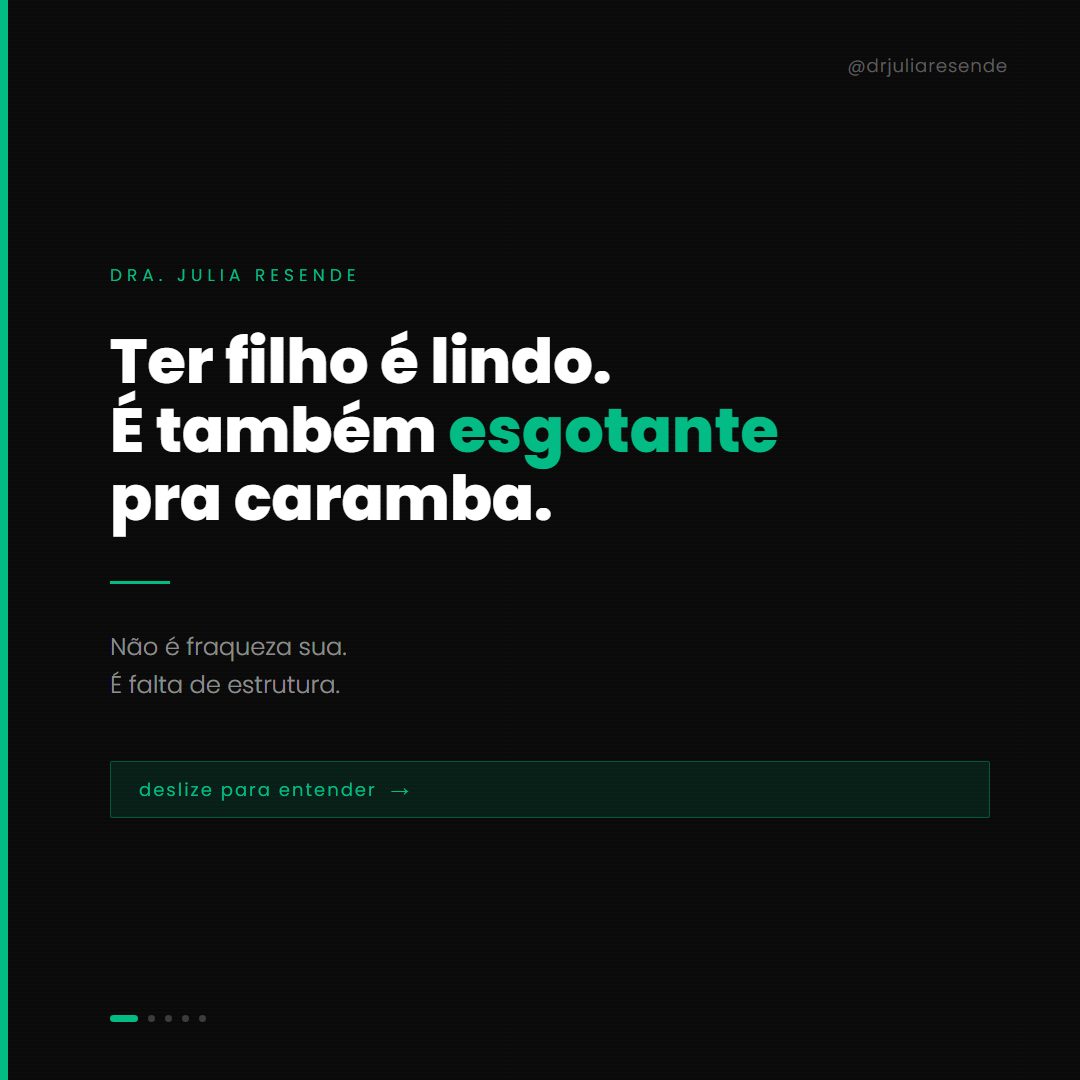
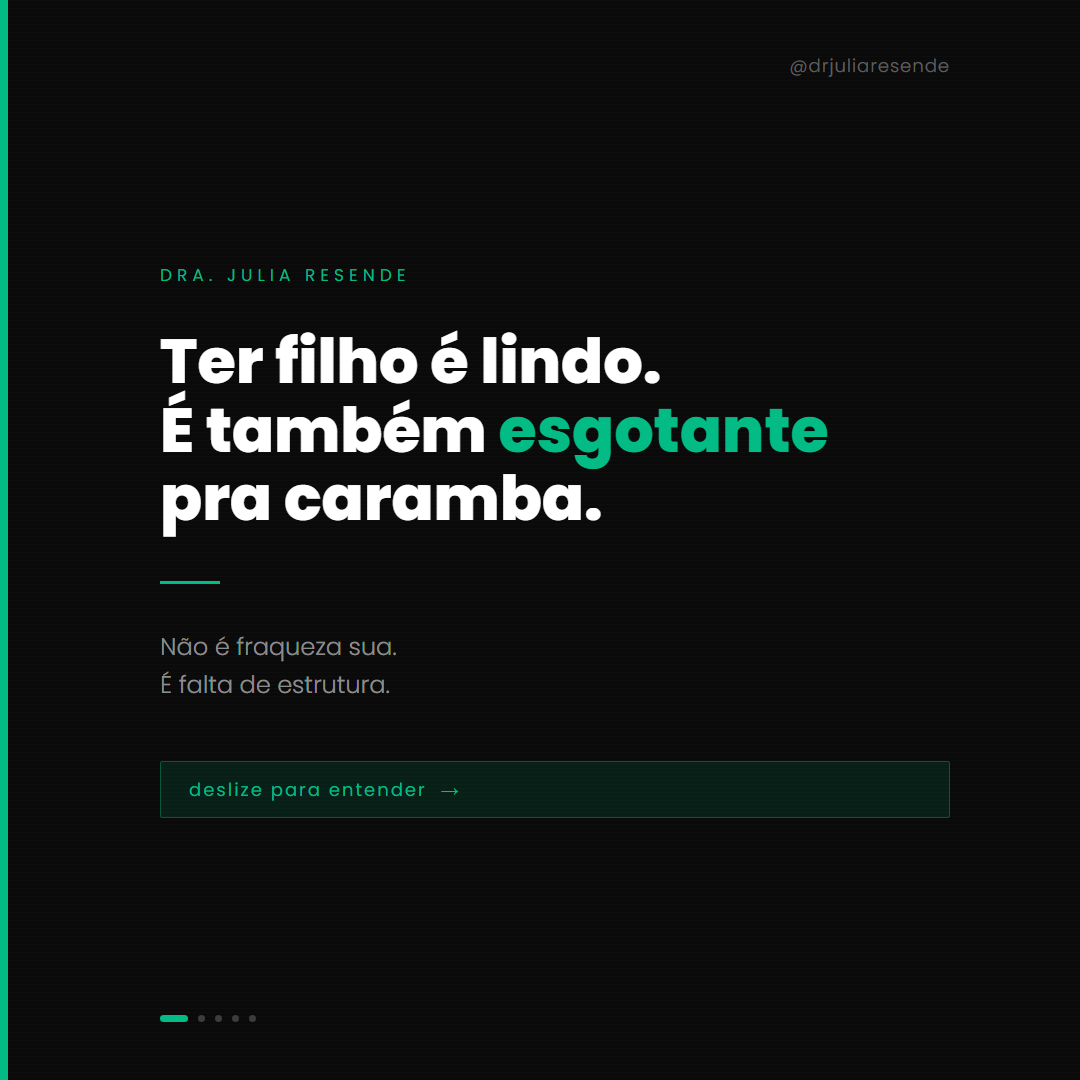
feat: carrossel-03 re-gerado com safe zone Instagram — padding 160px esquerda, texto completo sem corte

diff --git a/squads/dr-julia-resende/carrossel-03/slide-03.html b/squads/dr-julia-resende/carrossel-03/slide-03.html
@@ -8,8 +8,8 @@
     body { width: 1080px; height: 1080px; overflow: hidden; background: #F5ECD7; position: relative; font-family: 'Poppins', sans-serif; }
     body::before { content: ''; position: absolute; inset: 0; background-image: repeating-linear-gradient(0deg, transparent, transparent 2px, rgba(180,150,100,0.04) 2px, rgba(180,150,100,0.04) 4px), repeating-linear-gradient(90deg, transparent, transparent 3px, rgba(180,150,100,0.03) 3px, rgba(180,150,100,0.03) 6px); z-index: 0; }
     .accent-bar { position: absolute; left: 0; top: 0; width: 8px; height: 100%; background: #03bb85; z-index: 10; }
-    .handle { position: absolute; top: 52px; right: 72px; font-size: 18px; font-weight: 300; color: rgba(44,24,16,0.35); letter-spacing: 1px; z-index: 10; }
-    .content { position: relative; z-index: 10; height: 100%; display: flex; flex-direction: column; justify-content: center; padding: 0 90px 0 110px; }
+    .handle { position: absolute; top: 52px; right: 130px; font-size: 18px; font-weight: 300; color: rgba(44,24,16,0.35); letter-spacing: 1px; z-index: 10; }
+    .content { position: relative; z-index: 10; height: 100%; display: flex; flex-direction: column; justify-content: center; padding: 0 130px 0 160px; }
     .label { display: inline-flex; align-items: center; gap: 12px; background: rgba(3,187,133,0.12); border: 1px solid rgba(3,187,133,0.3); color: #03bb85; font-size: 15px; font-weight: 400; letter-spacing: 4px; text-transform: uppercase; padding: 10px 22px; border-radius: 2px; margin-bottom: 40px; width: fit-content; }
     .title { font-family: 'Playfair Display', serif; font-size: 58px; font-weight: 700; line-height: 1.2; color: #2C1810; margin-bottom: 50px; }
     .title em { font-style: italic; color: #03bb85; }
@@ -22,7 +22,7 @@
     .dots {
       position: absolute;
       bottom: 58px;
-      left: 110px;
+      left: 160px;
       display: flex;
       gap: 10px;
       align-items: center;

diff --git a/squads/dr-julia-resende/carrossel-03/slide-02.html b/squads/dr-julia-resende/carrossel-03/slide-02.html
@@ -8,8 +8,8 @@
     body { width: 1080px; height: 1080px; overflow: hidden; background: #0A0A0A; position: relative; font-family: 'Poppins', sans-serif; }
     body::before { content: ''; position: absolute; inset: 0; background-image: repeating-linear-gradient(0deg, transparent, transparent 3px, rgba(255,255,255,0.015) 3px, rgba(255,255,255,0.015) 4px); z-index: 0; }
     .accent-bar { position: absolute; left: 0; top: 0; width: 8px; height: 100%; background: rgba(255,255,255,0.15); z-index: 10; }
-    .handle { position: absolute; top: 52px; right: 72px; font-size: 18px; font-weight: 300; color: rgba(255,255,255,0.3); letter-spacing: 1px; z-index: 10; }
-    .content { position: relative; z-index: 10; height: 100%; display: flex; flex-direction: column; justify-content: center; padding: 0 90px 0 110px; }
+    .handle { position: absolute; top: 52px; right: 130px; font-size: 18px; font-weight: 300; color: rgba(255,255,255,0.3); letter-spacing: 1px; z-index: 10; }
+    .content { position: relative; z-index: 10; height: 100%; display: flex; flex-direction: column; justify-content: center; padding: 0 130px 0 160px; }
     .label { display: inline-flex; align-items: center; gap: 12px; background: rgba(255,255,255,0.06); border: 1px solid rgba(255,255,255,0.12); color: rgba(255,255,255,0.5); font-size: 15px; font-weight: 400; letter-spacing: 4px; text-transform: uppercase; padding: 10px 22px; border-radius: 2px; margin-bottom: 40px; width: fit-content; }
     .title { font-family: 'Playfair Display', serif; font-size: 58px; font-weight: 700; line-height: 1.2; color: rgba(255,255,255,0.9); margin-bottom: 50px; }
     .title em { font-style: italic; color: rgba(255,255,255,0.45); }
@@ -22,7 +22,7 @@
     .dots {
       position: absolute;
       bottom: 58px;
-      left: 110px;
+      left: 160px;
       display: flex;
       gap: 10px;
       align-items: center;

diff --git a/squads/dr-julia-resende/carrossel-03/slide-04.html b/squads/dr-julia-resende/carrossel-03/slide-04.html
@@ -8,8 +8,8 @@
     body { width: 1080px; height: 1080px; overflow: hidden; background: #F5ECD7; position: relative; font-family: 'Poppins', sans-serif; }
     body::before { content: ''; position: absolute; inset: 0; background-image: repeating-linear-gradient(0deg, transparent, transparent 2px, rgba(180,150,100,0.04) 2px, rgba(180,150,100,0.04) 4px), repeating-linear-gradient(90deg, transparent, transparent 3px, rgba(180,150,100,0.03) 3px, rgba(180,150,100,0.03) 6px); z-index: 0; }
     .accent-bar { position: absolute; left: 0; top: 0; width: 8px; height: 100%; background: #03bb85; z-index: 10; }
-    .handle { position: absolute; top: 52px; right: 72px; font-size: 18px; font-weight: 300; color: rgba(44,24,16,0.35); letter-spacing: 1px; z-index: 10; }
-    .content { position: relative; z-index: 10; height: 100%; display: flex; flex-direction: column; justify-content: center; padding: 0 100px 0 110px; }
+    .handle { position: absolute; top: 52px; right: 130px; font-size: 18px; font-weight: 300; color: rgba(44,24,16,0.35); letter-spacing: 1px; z-index: 10; }
+    .content { position: relative; z-index: 10; height: 100%; display: flex; flex-direction: column; justify-content: center; padding: 0 130px 0 160px; }
     .quote-mark { font-family: 'Playfair Display', serif; font-size: 120px; font-weight: 700; color: rgba(3,187,133,0.2); line-height: 0.7; margin-bottom: 24px; }
     .quote { font-family: 'Playfair Display', serif; font-size: 66px; font-weight: 700; line-height: 1.18; color: #2C1810; margin-bottom: 52px; }
     .quote em { font-style: italic; color: #03bb85; }
@@ -19,7 +19,7 @@
     .dots {
       position: absolute;
       bottom: 58px;
-      left: 110px;
+      left: 160px;
       display: flex;
       gap: 10px;
       align-items: center;

diff --git a/squads/dr-julia-resende/carrossel-03/slide-05.html b/squads/dr-julia-resende/carrossel-03/slide-05.html
@@ -7,8 +7,8 @@
     * { margin: 0; padding: 0; box-sizing: border-box; }
     body { width: 1080px; height: 1080px; overflow: hidden; background: #03bb85; position: relative; font-family: 'Poppins', sans-serif; }
     body::before { content: ''; position: absolute; inset: 0; background-image: repeating-linear-gradient(0deg, transparent, transparent 3px, rgba(255,255,255,0.04) 3px, rgba(255,255,255,0.04) 4px); z-index: 0; }
-    .handle { position: absolute; top: 52px; right: 72px; font-size: 18px; font-weight: 300; color: rgba(255,255,255,0.55); letter-spacing: 1px; z-index: 10; }
-    .content { position: relative; z-index: 10; height: 100%; display: flex; flex-direction: column; justify-content: center; align-items: center; text-align: center; padding: 0 100px; }
+    .handle { position: absolute; top: 52px; right: 130px; font-size: 18px; font-weight: 300; color: rgba(255,255,255,0.55); letter-spacing: 1px; z-index: 10; }
+    .content { position: relative; z-index: 10; height: 100%; display: flex; flex-direction: column; justify-content: center; align-items: center; text-align: center; padding: 0 130px; }
     .eyebrow { font-size: 16px; font-weight: 400; letter-spacing: 5px; text-transform: uppercase; color: rgba(255,255,255,0.65); margin-bottom: 36px; }
     .title { font-family: 'Poppins', sans-serif; font-size: 72px; font-weight: 800; line-height: 1.08; color: #FFFFFF; margin-bottom: 18px; }
     .subtitle { font-family: 'Playfair Display', serif; font-style: italic; font-size: 36px; font-weight: 400; color: rgba(255,255,255,0.8); margin-bottom: 60px; }

diff --git a/squads/dr-julia-resende/carrossel-03/slide-01.html b/squads/dr-julia-resende/carrossel-03/slide-01.html
@@ -19,8 +19,8 @@
       z-index: 0;
     }
     .accent-bar { position: absolute; left: 0; top: 0; width: 8px; height: 100%; background: #03bb85; z-index: 10; }
-    .handle { position: absolute; top: 52px; right: 72px; font-size: 18px; font-weight: 300; color: rgba(255,255,255,0.35); letter-spacing: 1px; z-index: 10; }
-    .content { position: relative; z-index: 10; height: 100%; display: flex; flex-direction: column; justify-content: center; padding: 0 90px 0 110px; }
+    .handle { position: absolute; top: 52px; right: 130px; font-size: 18px; font-weight: 300; color: rgba(255,255,255,0.35); letter-spacing: 1px; z-index: 10; }
+    .content { position: relative; z-index: 10; height: 100%; display: flex; flex-direction: column; justify-content: center; padding: 0 130px 0 160px; }
     .eyebrow { font-size: 17px; font-weight: 400; letter-spacing: 5px; text-transform: uppercase; color: #03bb85; margin-bottom: 40px; }
     .hook { font-size: 62px; font-weight: 800; line-height: 1.1; color: #FFFFFF; margin-bottom: 48px; }
     .hook span { color: #03bb85; }
@@ -31,7 +31,7 @@
     .dots {
       position: absolute;
       bottom: 58px;
-      left: 110px;
+      left: 160px;
       display: flex;
       gap: 10px;
       align-items: center;
